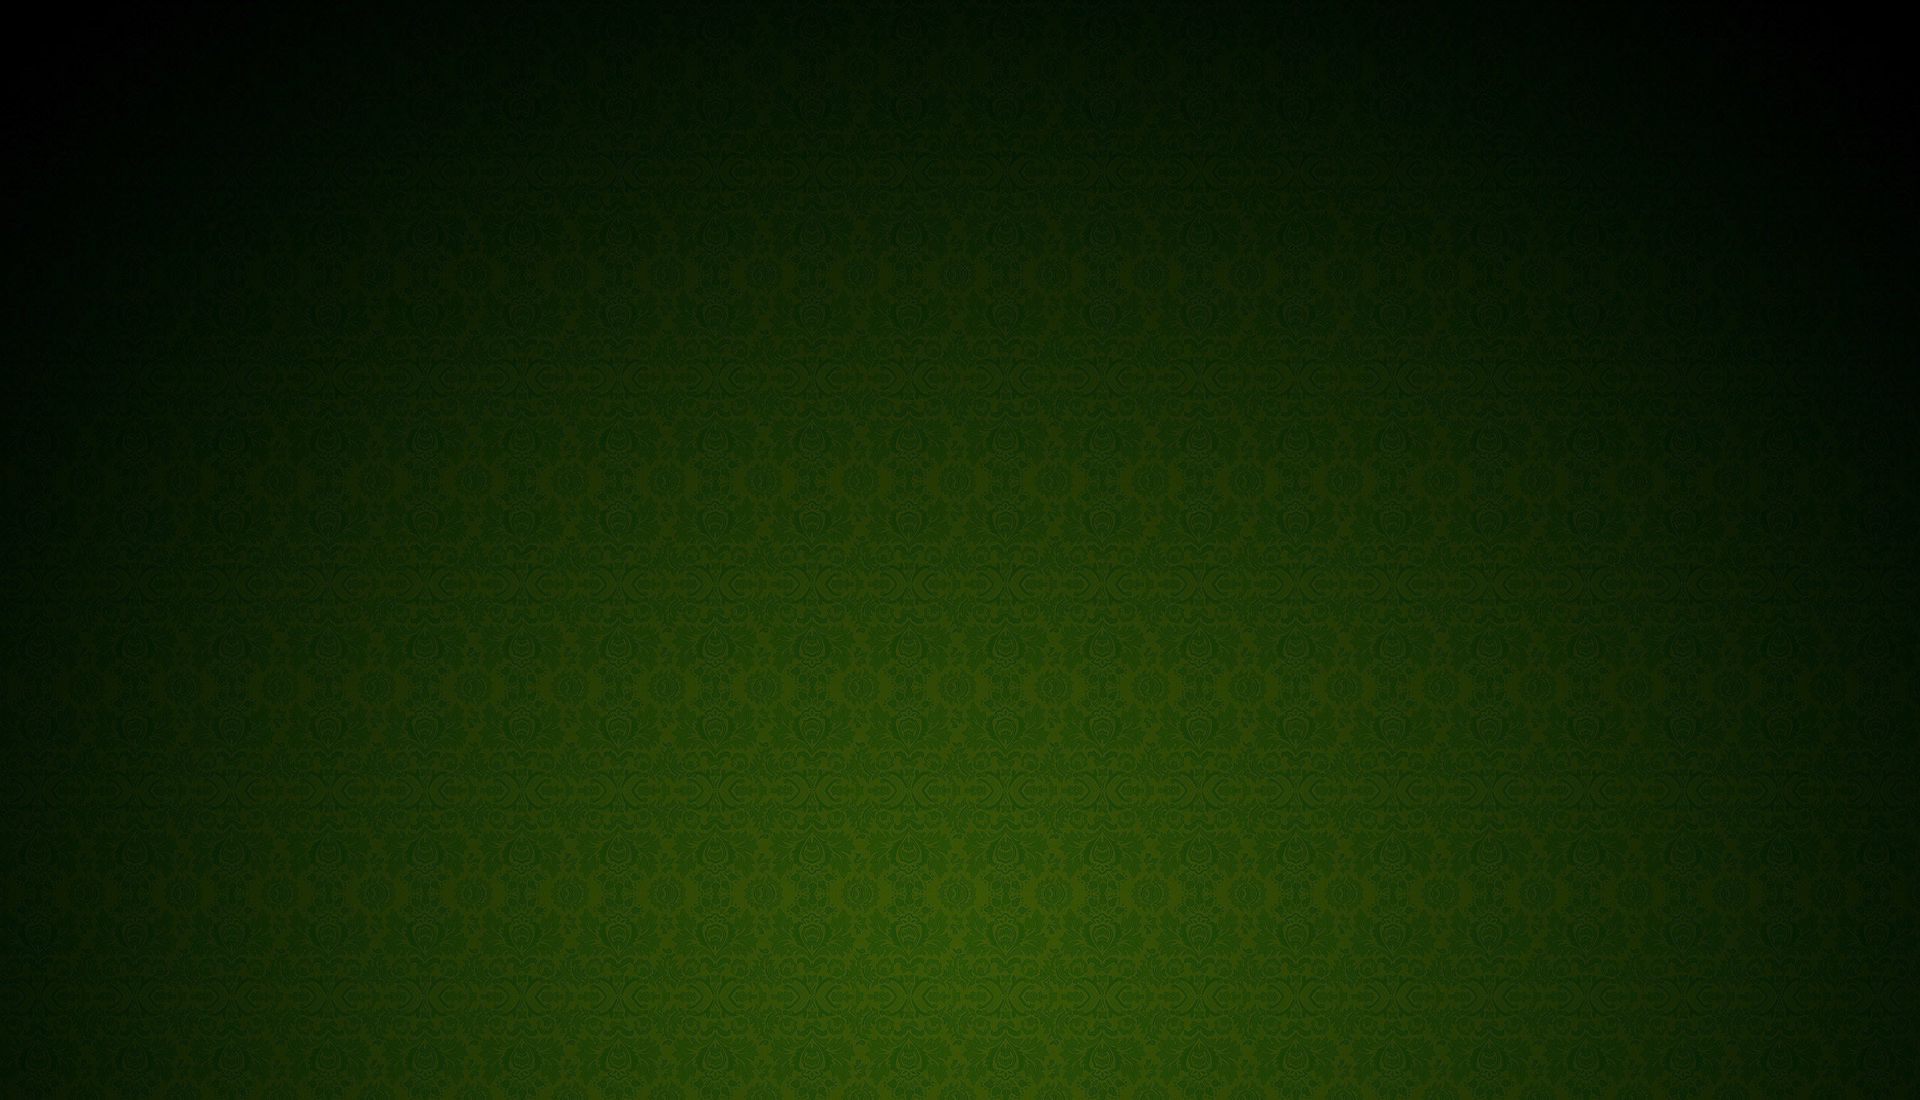
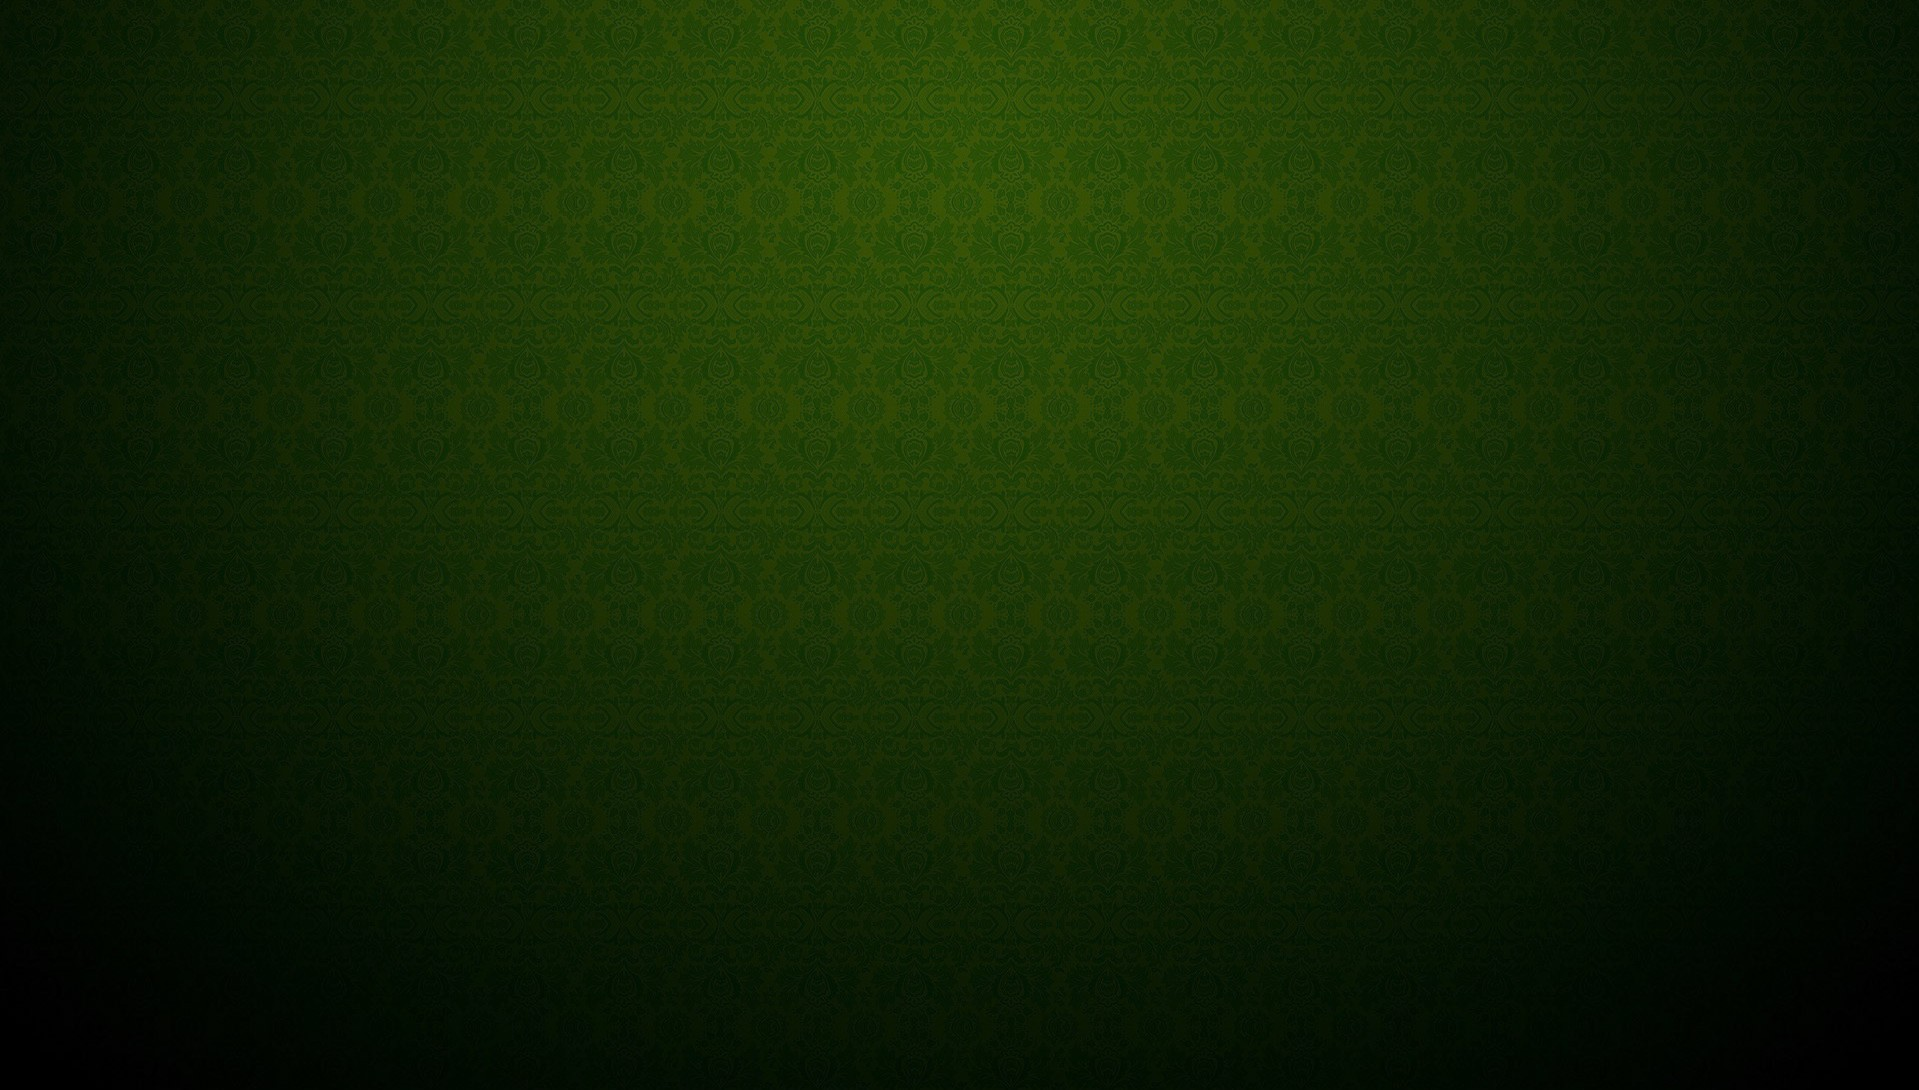
update to game table UI and fixed background

diff --git a/app/assets/stylesheets/tables.css.scss b/app/assets/stylesheets/tables.css.scss
@@ -17,7 +17,7 @@
   color: #FF9900;
   font-weight: bold;
   height: 180px;
-  padding-top: 5px;
+  padding-top: 10px;
   padding-bottom: 5px;
   border-bottom: 6px solid #1a1a1a;
 }
@@ -50,19 +50,20 @@
 }
 
 #pot-status {
-  color: #FFD119;
+  color: #19FF19;
   font-weight: 800;
   font-size: 125%;
   margin-top: 15px;
   border: 10px solid #003300;
   border-radius: 100px;
   //background-image:url(image-path('table_felt.jpg'));
-  height: 150px;
+  height: 100px;
+  width: 250px;
 }
 
 #pot-balance {
   text-align: center;
-  padding-top: 75px;
+  padding-top: 12%;
 }
 
 #players-row {
@@ -78,52 +79,80 @@
 }
 
 #action-console {
-  background-color: gray;
+  background-color: #1A1A1A;
   height: 200px;
+  border-top-left-radius: 5px;
 }
 
+
 #stay {
-  background-color: blue;
-  height: 50px;
+  margin-top: 10px;
+  background-color: orange;
 }
 
 #bet {
   background-color: red;
-  height: 50px;
 }
 
 #fold {
-  background-color: yellow;
-  height: 50px;
+  background-color: #0066CC;
 }
+
+#push-bet {
+  background-color: red;
+}
+
+#go-back {
+  background-color: #2EB82E;
+}
+
 
 .button {
-  width: 200px;
-  height: 75px;
-  margin-bottom: 25px;
-  text-align: center;
-  font-size: 2em;
-}
-
-.button-text {
-  padding-top: 10px;
-  color: white;
+  color: #1A1A1A;
+  font-weight: bold;
+  font-size: 125%;
+  width: 175px;
+  height: 50px;
+  margin-bottom: 15px;
+  border: 1px solid #222;
 }
 
 .join-observer-row {
+  padding-top: 20px;
   position: relative;
 }
 
-.join-button {
-   background-color: blue;
-   position: relative;
-   top: 35%;
+.join-observer-box {
+  border: 5px solid #1A1A1A;
+  padding: 10px;
+  height: 110px;
+  width: 70%;
+  margin: 0px auto 0px auto;
+  color: inherit;
+  background-color: #222222;
+  -webkit-border-radius: 6px;
+     -moz-border-radius: 6px;
+          border-radius: 6px;
 }
 
-.observe-button {
-  background-color: green;
-  position: relative;
-  top: 35%;
+.join-observer-table {
+  margin: 0px auto 0px auto;
+}
+
+.join-btn {
+   color: #222222;
+   background-color: red;
+   font-size: 200%;
+   font-weight: bold;
+   width: 300px;
+}
+
+.observe-btn {
+  color: #222222;
+  background-color: #1919FF;
+  font-size: 200%;
+  font-weight: bold;
+  width: 300px;
 }
 
 .action-panel {
@@ -136,17 +165,6 @@
   position: relative;
   top: 35%;
   text: 3em;
-}
-
-#push-bet {
-  background-color: red;
-  height: 50px;
-  margin-bottom: 15px
-}
-
-#go-back {
-  background-color: yellow;
-  height: 50px;
 }
 
 #message-row {

diff --git a/app/assets/javascripts/view_panels.js b/app/assets/javascripts/view_panels.js
@@ -27,9 +27,13 @@ function build_join_game_panel() {
 	}
 
 	if (poker.passed == false) {
-        var html = '<div class="col-sm-2"></div><div id="join-panel" class="col-sm-3 button button-text join-button">';
-        html += 'JOIN</div><div id="observe-panel" class="col-sm-3 button button-text observe-button">WATCH</div>';
-        html += '<div class="col-sm-2">';
+        var html = '<div class="join-observer-box">';
+        html += '<table class="join-observer-table"><tr><td>';
+        html += '<button type="button" id="join-panel" class="btn btn-danger join-btn btn-lrg">JOIN</button>';
+        html += '</td><td>';
+        html += '<button type="button" id="observe-panel" class="btn btn-primary observe-btn btn-lrg">WATCH</button>';
+        html += '</table></tr></td>';
+        html += '</div>';
         $("#game-row").html(html);
 
         $("#join-panel").on('click', function(event) {
@@ -57,9 +61,9 @@ function build_player_turn_panel() {
     }
 
     var html = '<p id="error-message">'+error_message+'</p>'; 
-    html += '<div id="stay" class="button"><p class="button-text">STAY</p></div>';
-    html += '<div id="bet" class="button"><p class="button-text">BET</p></div>';
-    html += '<div id="fold" class="button"><p class="button-text">FOLD</p></div>';
+    html += '<button id="stay" class="btn btn-primary button">CALL</button><br>';
+    html += '<button id="bet" class="btn btn-danger button">BET</button><br>';
+    html += '<button id="fold" class="btn btn-warning button">FOLD</button>';
 
     $("#action-console").html(html);
 
@@ -98,8 +102,8 @@ function build_player_bets_panel() {
     html += '<p>Minimum bet is $'+min_bet;
     html += '<br>Please enter bet amount: ';
     html += '<input id="bet_amt" type="text"></input></p>';
-    html += '<div id="push-bet" class="button button-text action-panel">BET</div>';
-    html += '<div id="go-back" class="button button-text action-panel">BACK</div>';
+    html += '<button id="push-bet" class="btn btn-danger button">BET</button><br>';
+    html += '<button id="go-back" class="btn btn-primary button">BACK</button>';
 
     $("#action-console").html(html);
 

diff --git a/app/assets/stylesheets/custom.css.scss b/app/assets/stylesheets/custom.css.scss
@@ -72,7 +72,9 @@
 
 body {
   color: #9d9d9d;   
+  background-color: black;
   background-image: url(image-path('green_bg.jpg'));
-  background-position: center;
+  background-repeat: no-repeat;
+  background-position: center 0px;
 }
 
